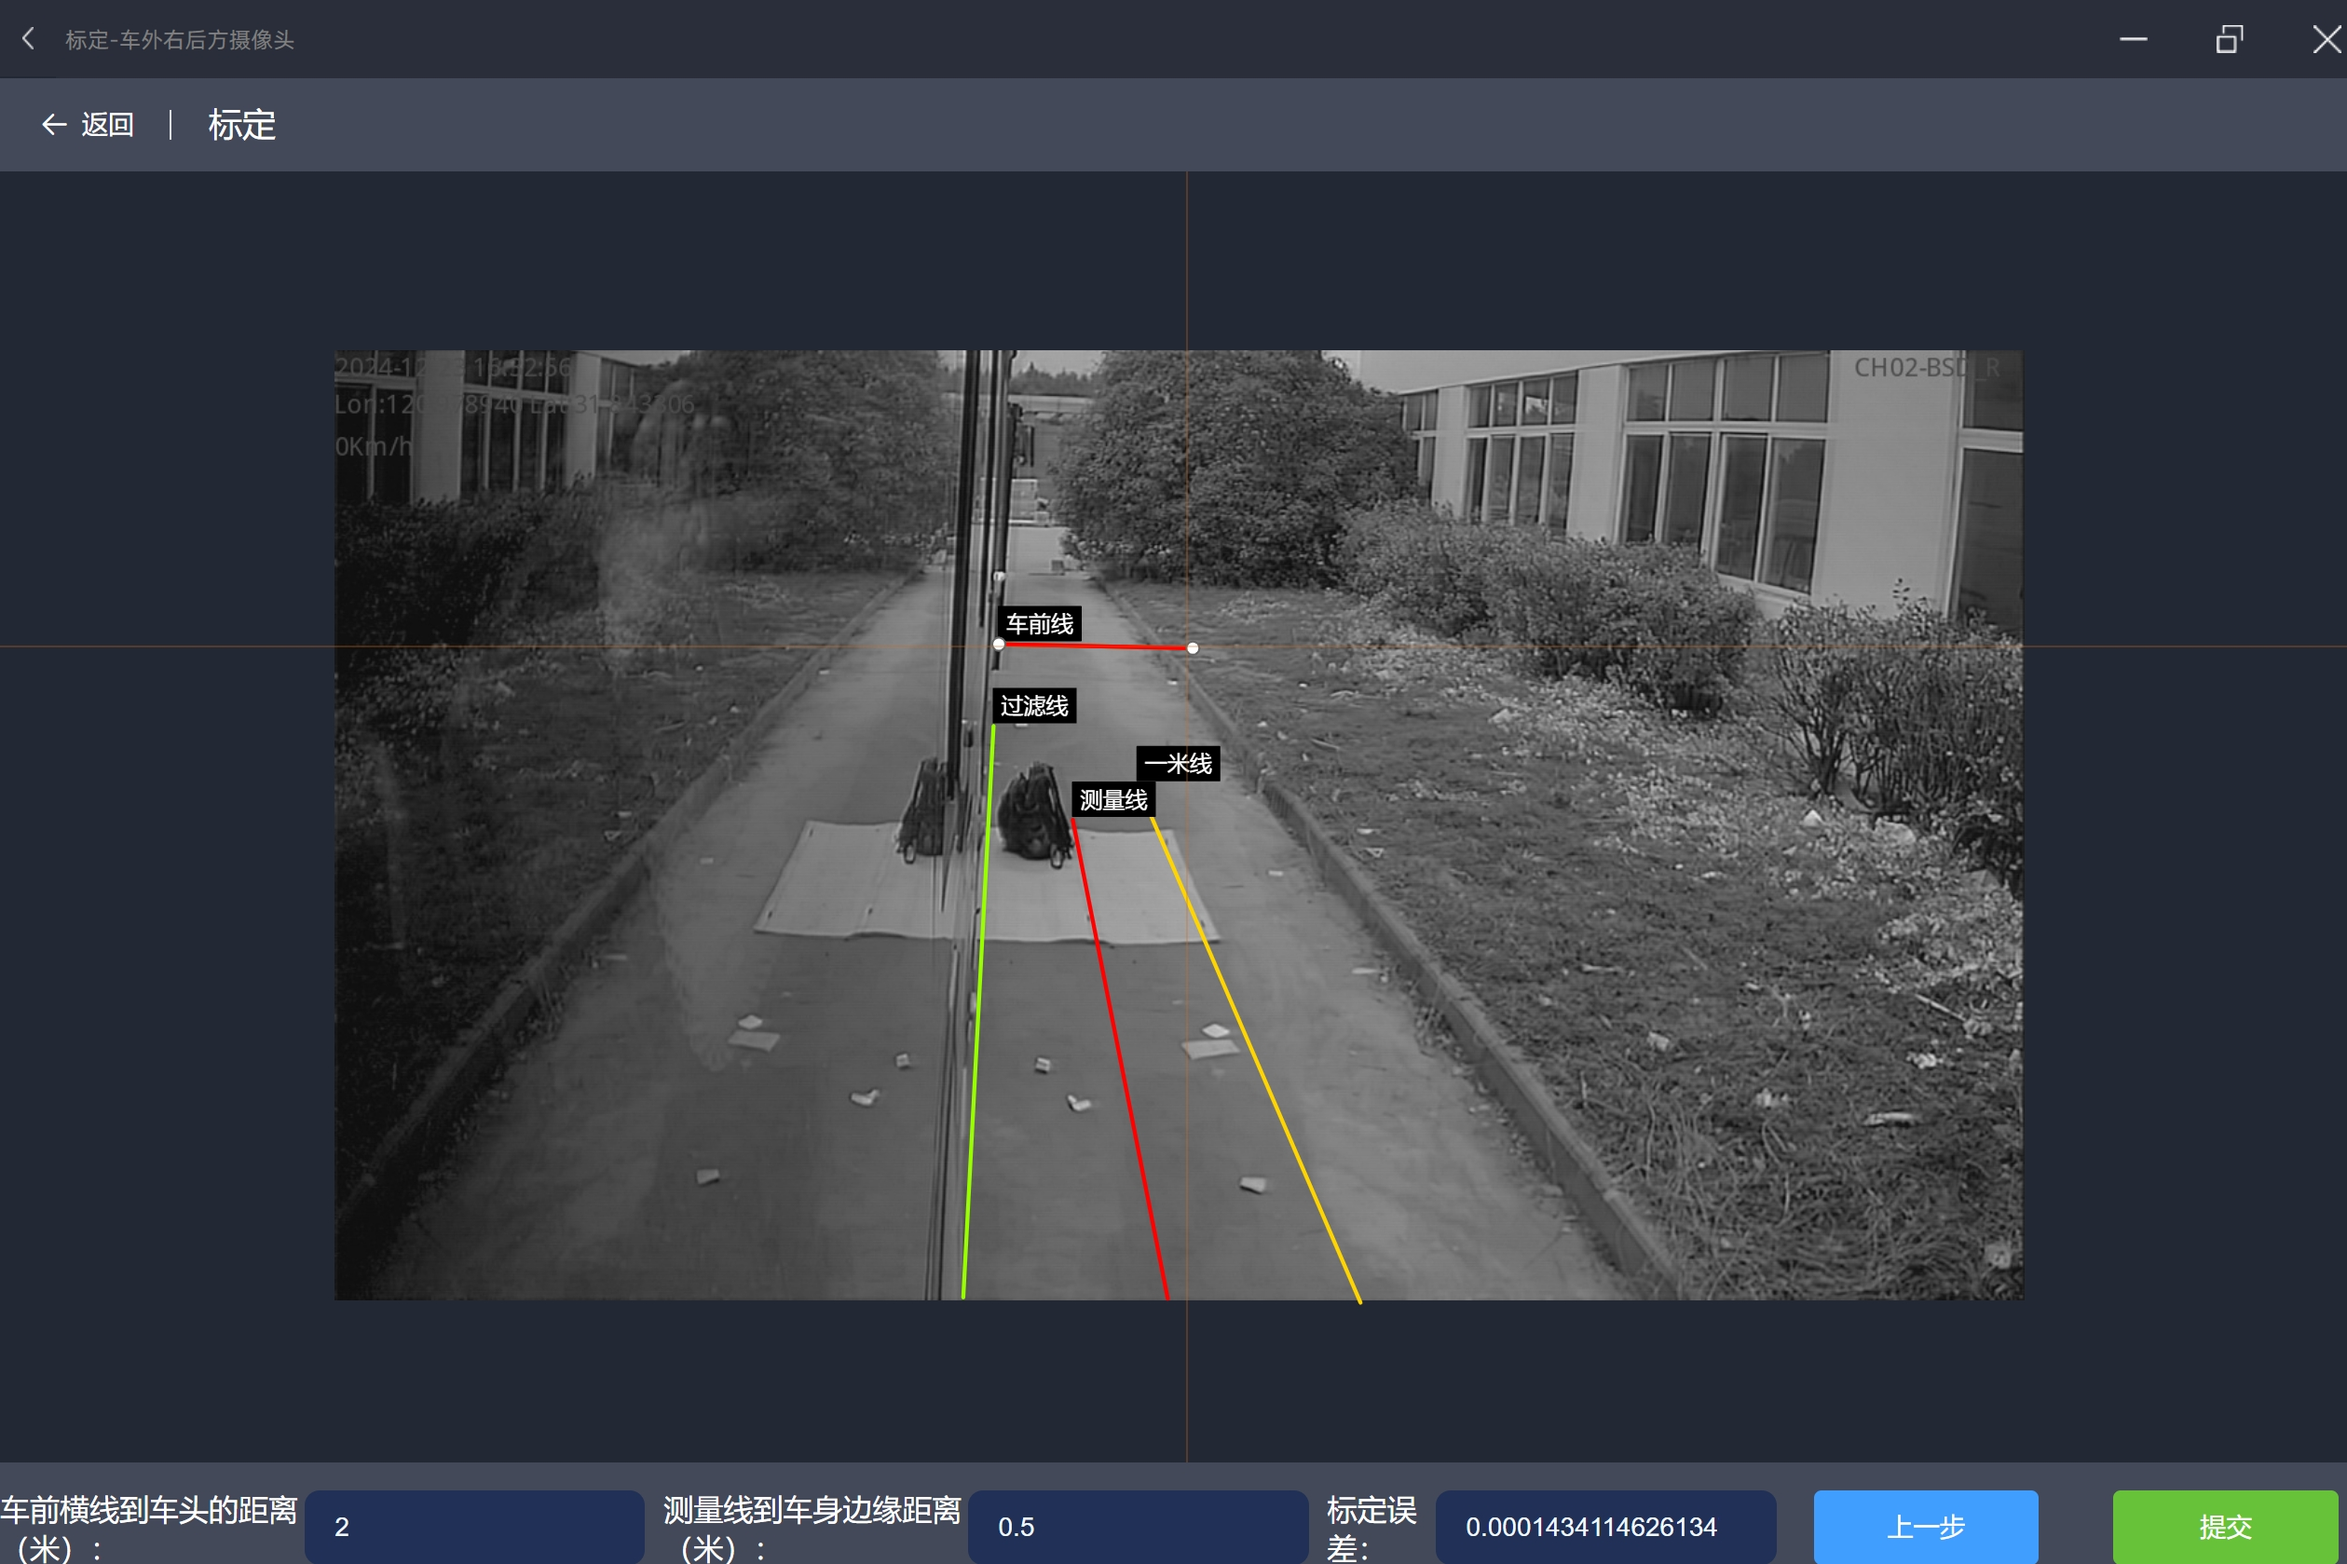
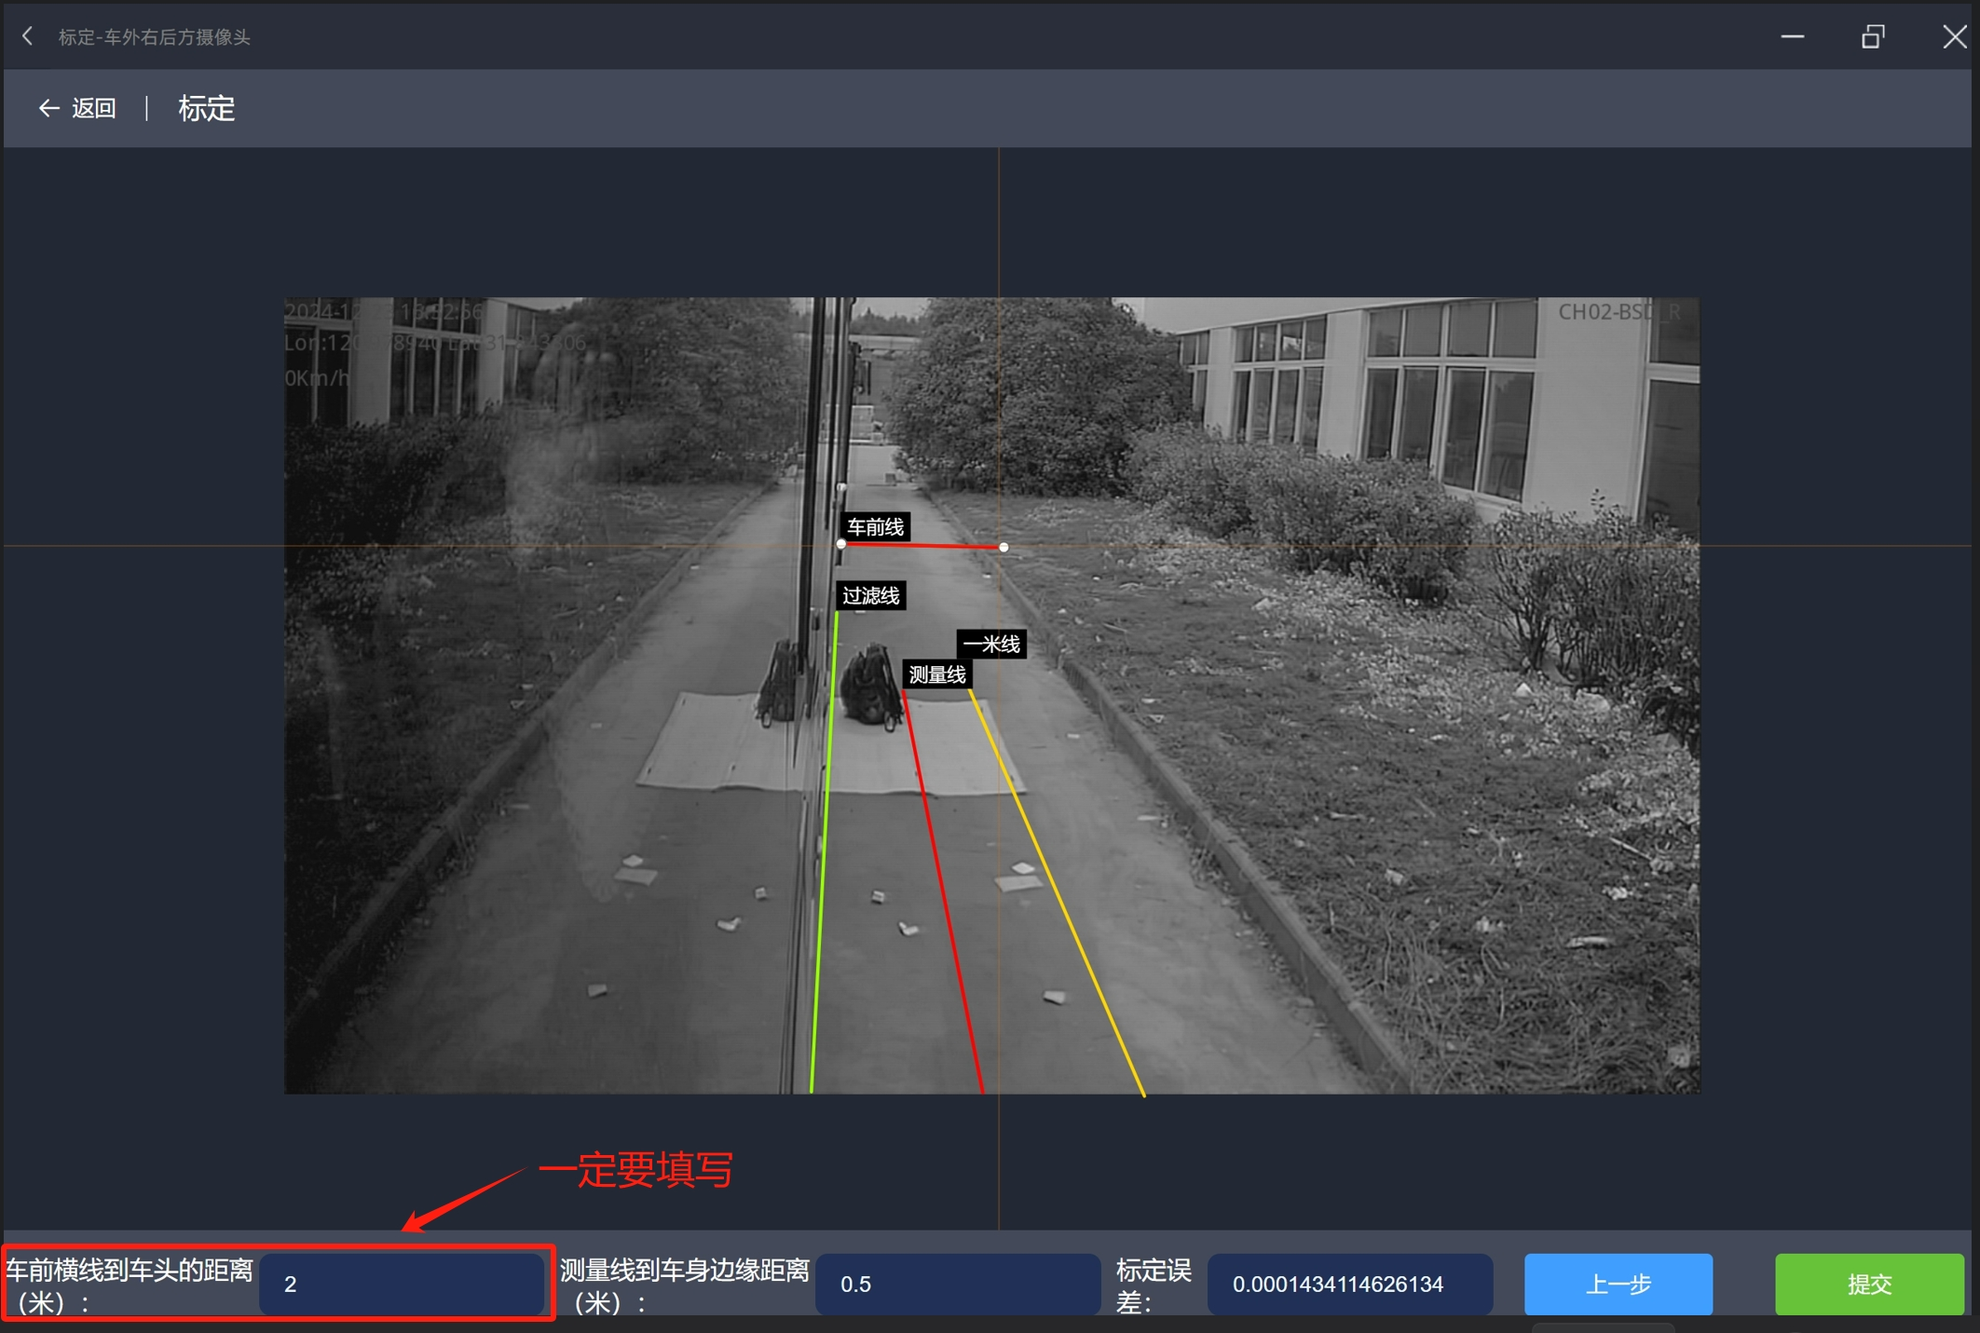
修改路径

diff --git a/docs/zh/article/车载调度产品.md b/docs/zh/article/车载调度产品.md
@@ -37,82 +37,82 @@
 const TM8707 = [
     {
         name: '线刷单片机和报站器',
-        link: '/blog/zh/article/车载调度/TM8707线刷单片机和报站器.html',
+        link: '/blog/zh/article/车载调度/TM8707/TM8707线刷单片机和报站器.html',
     },
     {
         name: 'U盘更新和备份语音',
-        link: '/blog/zh/article/车载调度/TM8707U盘更新和备份语音.html',
+        link: '/blog/zh/article/车载调度/TM8707/TM8707U盘更新和备份语音.html',
     },
     {
         name: '组合功能键说明',
-        link: '/blog/zh/article/车载调度/TM8707组合功能键说明.html',
+        link: '/blog/zh/article/车载调度/TM8707/TM8707组合功能键说明.html',
     }
 ]
 
 const TM872x = [
     {
         name: '线刷程序教程',
-        link: '/blog/zh/article/车载调度/TM8720线刷程序教程.html',
+        link: '/blog/zh/article/车载调度/TM8720/TM8720线刷程序教程.html',
     },
     {
         name: 'U盘升级核心板、单片机、语音',
-        link: '/blog/zh/article/车载调度/TM8720U盘升级核心板-单片机-语音.html',
+        link: '/blog/zh/article/车载调度/TM8720/TM8720U盘升级核心板-单片机-语音.html',
     },
 ]
 
 const TM8730 = [
     {
         name: 'U盘升级单片机、语音',
-        link: '/blog/zh/article/车载调度/TM8720U盘升级核心板-单片机-语音.html',
+        link: '/blog/zh/article/车载调度/TM8730/TM8720U盘升级核心板-单片机-语音.html',
     },
 ]
 
 const TM8731 = [
     {
         name: '线刷',
-        link: '/blog/zh/article/车载调度/TM8731线刷.html',
+        link: '/blog/zh/article/车载调度/TM8731/TM8731线刷.html',
     },
     {
         name: 'U盘升级核心板、单片机、语音',
-        link: '/blog/zh/article/车载调度/TM8731U盘升级核心板-单片机-语音.html',
+        link: '/blog/zh/article/车载调度/TM8731/TM8731U盘升级核心板-单片机-语音.html',
     },
 ]
 
 const TM8732 = [
     {
         name: '线刷',
-        link: '/blog/zh/article/车载调度/TM8765N车载机常见故障及维修方法.html',
+        link: '/blog/zh/article/车载调度/TM8732/TM8765N车载机常见故障及维修方法.html',
     },
     {
         name: 'U盘升级核心板、单片机、语音',
-        link: '/blog/zh/article/车载调度/TM8765N车载机常见故障及维修方法.html',
+        link: '/blog/zh/article/车载调度/TM8732/TM8765N车载机常见故障及维修方法.html',
     },
 ]
 
 const TM8760 = [
     {
         name: 'U盘升级核心板、单片机、语音',
-        link: '/blog/zh/article/车载调度/TM8765N车载机常见故障及维修方法.html',
+        link: '/blog/zh/article/车载调度/TM8760/TM8765N车载机常见故障及维修方法.html',
     },
     {
         name: '线刷',
-        link: '/blog/zh/article/车载调度/TM8765N车载机常见故障及维修方法.html',
+        link: '/blog/zh/article/车载调度/TM8760/TM8765N车载机常见故障及维修方法.html',
     },
     {
         name: '调试线线序定义',
-        link: '/blog/zh/article/车载调度/TM8765N车载机常见故障及维修方法.html',
+        link: '/blog/zh/article/车载调度/TM8760/TM8765N车载机常见故障及维修方法.html',
     },
     {
         name: '显示屏延长线线序说明',
-        link: '/blog/zh/article/车载调度/TM8765N车载机常见故障及维修方法.html',
+        link: '/blog/zh/article/车载调度/TM8760/TM8765N车载机常见故障及维修方法.html',
     },
     {
         name: '远程格式化和U盘格式化 EMMC',
-        link: '/blog/zh/article/车载调度/TM8765N车载机常见故障及维修方法.html',
+        link: '/blog/zh/article/车载调度/TM8760/TM8765N车载机常见故障及维修方法.html',
     },
     {
         name: '车载机常见故障及维修方法',
-        link: '/blog/zh/article/车载调度/TM8765N车载机常见故障及维修方法.html',
+        link: '/blog/zh/article/车载调度/TM8760/TM8765N车载机常见故障及维修方法.html',
     },
 ]
 
@@ -120,54 +120,54 @@ const TM8760 = [
 const TM8765 = [
     {
         name: '车载机常见故障及维修方法',
-        link: '/blog/zh/article/车载调度/TM8765N车载机常见故障及维修方法.html',
+        link: '/blog/zh/article/车载调度/TM8765/TM8765N车载机常见故障及维修方法.html',
     },
     {
         name: 'U盘升级、远程升级',
-        link: '/blog/zh/article/车载调度/TM8765N车载机常见故障及维修方法.html',
+        link: '/blog/zh/article/车载调度/TM8765/TM8765N车载机常见故障及维修方法.html',
     },
     {
         name: '运维宝APP使用',
-        link: '/blog/zh/article/车载调度/TM8765N车载机常见故障及维修方法.html',
+        link: '/blog/zh/article/车载调度/TM8765/TM8765N车载机常见故障及维修方法.html',
     }
 ]
 
 const tongyong = [
     {
         name: '车载机和服务器通讯数据抓取',
-        link: '/blog/zh/article/车载调度/车载机和服务器通讯数据抓取.html',
+        link: '/blog/zh/article/车载调度/车载机通用文档/车载机和服务器通讯数据抓取.html',
     },
     {
         name: 'DEBUG 调试线制作',
-        link: '/blog/zh/article/车载调度/DEBUG调试线制作.html',
+        link: '/blog/zh/article/车载调度/车载机通用文档/DEBUG调试线制作.html',
     },
     {
         name: '视频 OSD 水印说明',
-        link: '/blog/zh/article/车载调度/视频OSD水印说明.html',
+        link: '/blog/zh/article/车载调度/车载机通用文档/视频OSD水印说明.html',
     },
     {
         name: '视频平台报警及硬盘故障排查方法',
-        link: '/blog/zh/article/车载调度/视频平台报警及硬盘故障排查方法.html',
+        link: '/blog/zh/article/车载调度/车载机通用文档/视频平台报警及硬盘故障排查方法.html',
     },
     {
         name: '调取录像培训文档及应急方案',
-        link: '/blog/zh/article/车载调度/调取录像培训文档及应急方案.html',
+        link: '/blog/zh/article/车载调度/车载机通用文档/调取录像培训文档及应急方案.html',
     },
     {
         name: '一键报警功能说明文档',
-        link: '/blog/zh/article/车载调度/一键报警功能说明文档.html',
+        link: '/blog/zh/article/车载调度/车载机通用文档/一键报警功能说明文档.html',
     },
     {
         name: '车载机常见故障及原因排查',
-        link: '/blog/zh/article/车载调度/车载机常见故障及原因排查.html',
+        link: '/blog/zh/article/车载调度/车载机通用文档/车载机常见故障及原因排查.html',
     },
     {
         name: '车载机发车提示音功能说明及故障排查',
-        link: '/blog/zh/article/车载调度/车载机发车提示音功能说明.html',
+        link: '/blog/zh/article/车载调度/车载机通用文档/车载机发车提示音功能说明.html',
     },
     {
         name: '常用LINUX命令',
-        link: '/blog/zh/article/车载调度/常用LINUX命令.html',
+        link: '/blog/zh/article/车载调度/车载机通用文档/常用LINUX命令.html',
     },
 ]
 </script>

diff --git a/docs/zh/product/主动安全/主动安全设备/TM9608.md b/docs/zh/product/主动安全/主动安全设备/TM9608.md
@@ -34,11 +34,19 @@ next:
 
 ## 五、调试
 
-### 1、测量车身数据
+### 1、工具
+
+> ①、笔记本电脑   
+> ②、TM9608调试线束   
+> ③、尺子   
+
+![9608盲区调试线束定义.png](/产品/主动安全/主动安全设备/TM9608/9608盲区调试线束定义.png )
+
+### 2、测量车身数据
 
 ![测量车身数据.png](/产品/主动安全/主动安全设备/TM9608/测量车身数据.png )
 
-### 2、贴标定线
+### 3、贴标定线
 
 > ①、标识车身线
 >
@@ -51,21 +59,33 @@ next:
 ![贴标定线.png](/产品/主动安全/主动安全设备/TM9608/贴标定线.png =200x392)&nbsp;
 ![贴标定线-车头2米处.png](/产品/主动安全/主动安全设备/TM9608/贴标定线-车头2米处.png =364x390)
 
-### 3、标定
+### 4、标定
 
-①、打开上位机软件，选择`标定` 。
+①、更改电脑ip
+
+> TM9608调试线束连接盲区主机 `LAN-1` 口，将电脑IP设置为`192.168.8.xxx`网段。
+
+![修改电脑IP.png](/产品/主动安全/主动安全设备/TM9608/修改电脑IP.png )
+
+②、查看是否与设备通讯
+
+> 打开上位机，点击详情，查看设备与电脑是否通信。
+
+![查看电脑与盲区主机是否通讯.png](/产品/主动安全/主动安全设备/TM9608/查看电脑与盲区主机是否通讯.png )
+
+③、打开上位机软件，选择`标定` 。
 
 ![上位机软件.png](/产品/主动安全/主动安全设备/TM9608/上位机软件.png )
 
-②、选择`车外右后方（BSD）摄像头`进行标定。
+④、选择`车外右后方（BSD）摄像头`进行标定。
 
 ![右后方BSD摄像机标定.png](/产品/主动安全/主动安全设备/TM9608/右后方BSD摄像机标定.png )
 
-③、填写车辆参数。
+⑤、填写车辆参数。
 
 ![测量参数.png](/产品/主动安全/主动安全设备/TM9608/测量参数.png )
 
-④、标记辅助线，拖动车身线、0.5米线、1米线、车前线和实际位置重合。
+⑥、标记辅助线，拖动车身线、0.5米线、1米线、车前线和实际位置重合。
 
 > 注意：一定要填写：车前横线到车头的距离2米。
 
@@ -73,7 +93,7 @@ next:
 
 ![标定线重合.png](/产品/主动安全/主动安全设备/TM9608/标定线重合.png )
 
-④、点击提交，即可完成标定。
+⑦、点击提交，即可完成标定。
 
 ## 六、测试
 
@@ -87,19 +107,7 @@ next:
 
 ## 七、升级、更新配置
 
-### 1、更改电脑ip
-
-> 修改如下，使用通信线束连接主机LAN1，经电脑IP设置为8网段。
-
-![修改电脑IP.png](/产品/主动安全/主动安全设备/TM9608/修改电脑IP.png )
-
-### 2、查看是否与设备通讯
-
-> 打开上位机，点击详情，查看设备与电脑是否通信。
-
-![查看电脑与盲区主机是否通讯.png](/产品/主动安全/主动安全设备/TM9608/查看电脑与盲区主机是否通讯.png )
-
-### 3、升级
+### 1、升级
 
 > 选择升级配置，选择要升级的配置文件，点击升级。
 >
@@ -107,7 +115,7 @@ next:
 
 ![升级配置.png](/产品/主动安全/主动安全设备/TM9608/升级配置.png )
 
-### 4、查看版本号
+### 2、查看版本号
 
 更新完成后查看版本号。
 
